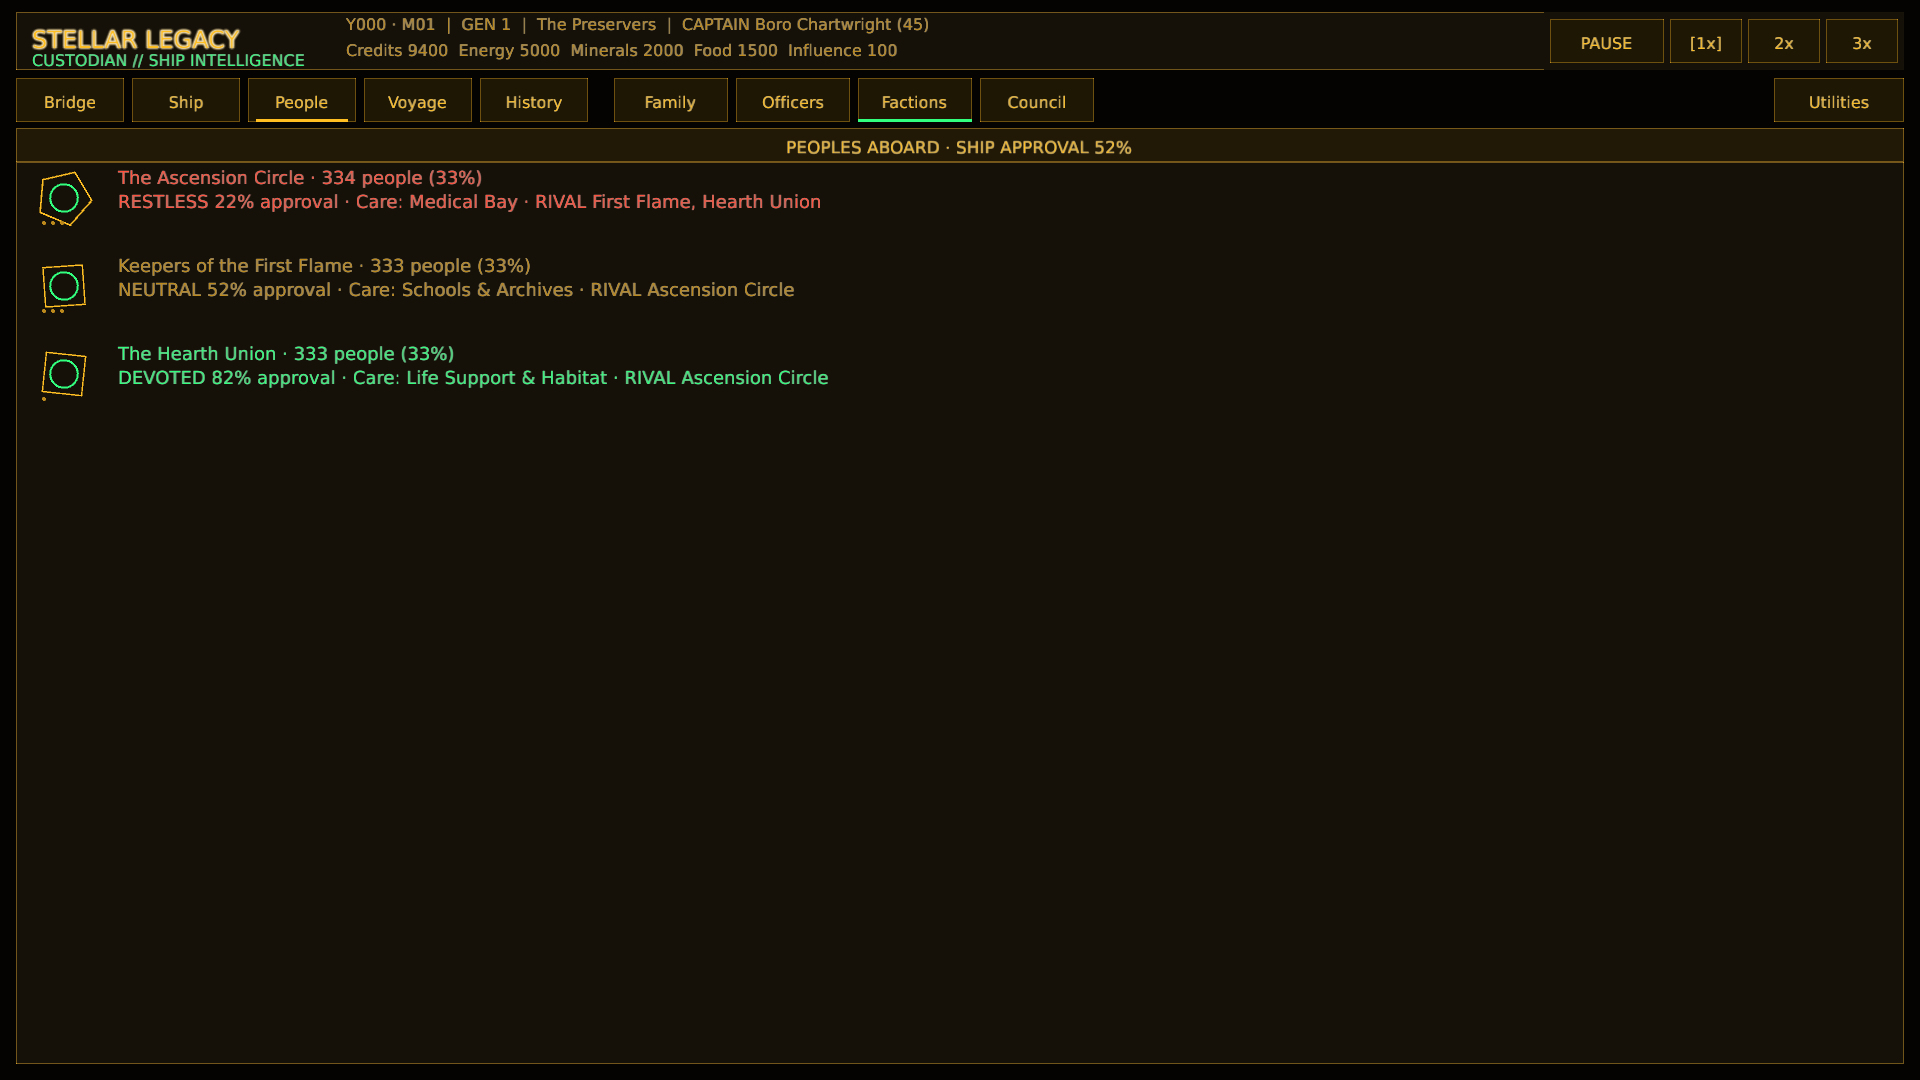
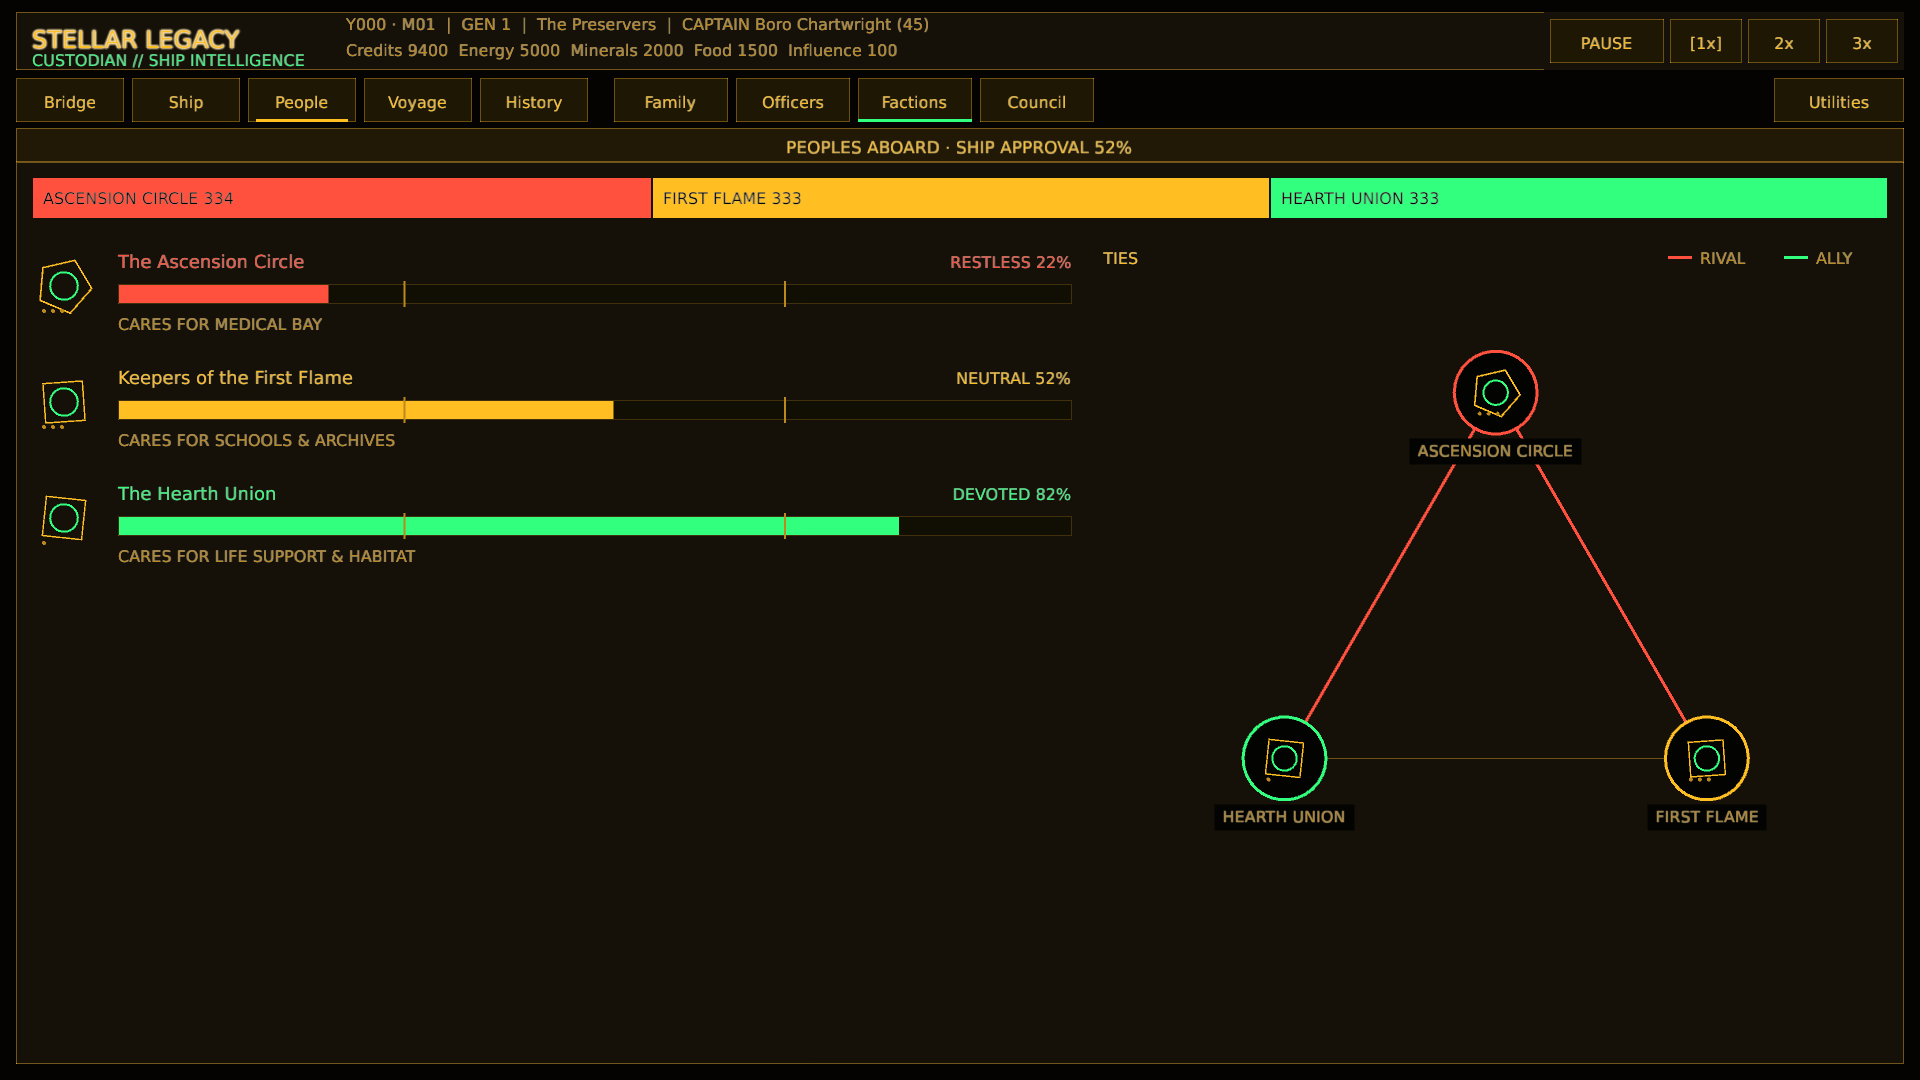
The peoples aboard are read by their colours and their quarrels (Factions panel)
Factions was three two-line sentences ("RESTLESS 22% approval · Care:
Medical Bay · RIVAL First Flame, Hearth Union") over a panel about 80%
empty (UI_TEXT_REVIEW item 3).

The panel now opens with one population-share bar split by head count,
each span in its people's mood colour. Each people gets a card: emblem,
name, mood and approval, an approval gauge with the restless (30%) and
devoted (70%) lines marked, and the module it cares for. The right
column draws the ties: peoples on a ring with mood-coloured rims,
joined by red rival and green ally edges, either side naming the other
being enough. Lost peoples still list faintly below the cards, and the
recruitment view is unchanged. The new `crew_dynasty/factions.rs` owns
the drawing; the old row builder is gone.

Formatting, strict all-target Clippy and the full test suite including
code standards pass. Factions was recaptured at 1920x1080 and read back.

diff --git a/src/ui/crew_dynasty/factions.rs b/src/ui/crew_dynasty/factions.rs
@@ -1,0 +1,233 @@
+//! Peoples aboard as instruments: a population-share bar, one approval gauge
+//! per people with the restless and devoted lines marked, and a ties diagram
+//! with rivals and allies drawn as coloured edges. Replaces the old two-line
+//! sentence per people (docs/UI_TEXT_REVIEW.md, item 3).
+
+use crate::state::sim::factions::{approval_band_label, mood_band_for, FactionState};
+use crate::ui::{chart, term, GameplayCtx};
+use macroquad::prelude::*;
+use macroquad_toolkit::prelude::*;
+use macroquad_toolkit::ui::draw_ui_text_ex;
+
+/// The approval lines where a people turns restless or devoted.
+const RESTLESS_LINE: f32 = 0.3;
+const DEVOTED_LINE: f32 = 0.7;
+const CARD_H: f32 = 116.0;
+
+fn mood_color(approval: f32) -> Color {
+    match mood_band_for(approval) {
+        -1 => term::alert(),
+        1 => term::accent(),
+        _ => term::primary(),
+    }
+}
+
+fn full_name(ctx: &GameplayCtx<'_>, id: &str) -> String {
+    ctx.data
+        .factions
+        .get(id)
+        .map(|definition| definition.name.clone())
+        .unwrap_or_else(|| id.to_owned())
+}
+
+fn short_name(ctx: &GameplayCtx<'_>, id: &str) -> String {
+    let name = full_name(ctx, id);
+    name.strip_prefix("The ")
+        .or_else(|| name.strip_prefix("Keepers of the "))
+        .unwrap_or(&name)
+        .to_uppercase()
+}
+
+/// Draws the aboard peoples and returns the y below the cards, where the
+/// caller lists any peoples the ship has lost.
+pub(super) fn draw_aboard(ctx: &GameplayCtx<'_>, content: Rect) -> f32 {
+    let aboard: Vec<&FactionState> = ctx.sim.factions.iter().filter(|f| f.is_aboard()).collect();
+    let bar = Rect::new(content.x, content.y + 34.0, content.w, 40.0);
+    draw_share_bar(ctx, &aboard, bar);
+
+    let top = bar.bottom() + 28.0;
+    let cards_w = content.w * 0.56;
+    let mut y = top;
+    for faction in &aboard {
+        draw_card(
+            ctx,
+            faction,
+            Rect::new(content.x, y, cards_w, CARD_H - 12.0),
+        );
+        y += CARD_H;
+    }
+    let ties = Rect::new(
+        content.x + cards_w + 32.0,
+        top,
+        content.right() - (content.x + cards_w + 32.0),
+        content.bottom() - top,
+    );
+    draw_ties(ctx, &aboard, ties);
+    y + 8.0
+}
+
+/// One bar split by head count, each span in its people's mood colour and
+/// named where it is wide enough to hold the name.
+fn draw_share_bar(ctx: &GameplayCtx<'_>, aboard: &[&FactionState], bar: Rect) {
+    let total: u32 = aboard.iter().map(|f| f.members).sum();
+    if total == 0 {
+        return;
+    }
+    let mut x = bar.x;
+    for faction in aboard {
+        let w = bar.w * faction.members as f32 / total as f32;
+        let span = Rect::new(x + 1.0, bar.y, (w - 2.0).max(1.0), bar.h);
+        draw_rectangle(span.x, span.y, span.w, span.h, mood_color(faction.approval));
+        let label = format!(
+            "{} {}",
+            short_name(ctx, &faction.faction_id),
+            faction.members
+        );
+        let style = TextStyle::new(16.0, term::bg());
+        if measure_text_size(&label, style).width + 20.0 < span.w {
+            draw_ui_text_ex(&label, span.x + 10.0, span.y + 26.0, style.params());
+        }
+        x += w;
+    }
+}
+
+fn draw_card(ctx: &GameplayCtx<'_>, faction: &FactionState, card: Rect) {
+    let tone = mood_color(faction.approval);
+    crate::ui::identity::emblem(
+        Rect::new(card.x, card.y + 8.0, 64.0, 64.0),
+        &faction.faction_id,
+    );
+    let x = card.x + 86.0;
+    draw_ui_text_ex(
+        &full_name(ctx, &faction.faction_id),
+        x,
+        card.y + 22.0,
+        TextStyle::new(18.0, tone).params(),
+    );
+    let mood = format!(
+        "{} {:.0}%",
+        approval_band_label(faction.approval),
+        faction.approval * 100.0
+    );
+    let mood_w = measure_text_size(&mood, TextStyle::new(16.0, tone)).width;
+    draw_ui_text_ex(
+        &mood,
+        card.right() - mood_w,
+        card.y + 22.0,
+        TextStyle::new(16.0, tone).params(),
+    );
+    let gauge = Rect::new(x, card.y + 38.0, card.right() - x, 20.0);
+    chart::gauge(gauge, faction.approval, None, tone);
+    // The band lines a people crosses into restlessness or devotion.
+    for line in [RESTLESS_LINE, DEVOTED_LINE] {
+        let lx = gauge.x + 1.0 + (gauge.w - 2.0) * line;
+        draw_rectangle(lx - 1.0, gauge.y - 3.0, 2.0, gauge.h + 6.0, term::dim());
+    }
+    if let Some(tended) = ctx
+        .data
+        .factions
+        .get(&faction.faction_id)
+        .and_then(|definition| ctx.data.subsystems.get(&definition.tended_subsystem))
+    {
+        draw_ui_text_ex(
+            &format!("CARES FOR {}", tended.name.to_uppercase()),
+            x,
+            card.y + 84.0,
+            TextStyle::new(16.0, term::dim()).params(),
+        );
+    }
+}
+
+/// Whether two peoples are rivals (-1), allies (+1) or neither (0). Either
+/// side naming the other is enough.
+fn tie(ctx: &GameplayCtx<'_>, a: &str, b: &str) -> i8 {
+    let names = |from: &str, to: &str, rivals: bool| {
+        ctx.data.factions.get(from).is_some_and(|definition| {
+            let list = if rivals {
+                &definition.rivals
+            } else {
+                &definition.allies
+            };
+            list.iter().any(|id| id == to)
+        })
+    };
+    if names(a, b, true) || names(b, a, true) {
+        -1
+    } else if names(a, b, false) || names(b, a, false) {
+        1
+    } else {
+        0
+    }
+}
+
+/// Peoples on a ring, joined by red rival and green ally edges.
+fn draw_ties(ctx: &GameplayCtx<'_>, aboard: &[&FactionState], area: Rect) {
+    draw_ui_text_ex(
+        "TIES",
+        area.x,
+        area.y + 18.0,
+        TextStyle::new(16.0, term::primary()).params(),
+    );
+    let legend_x = area.right() - 220.0;
+    draw_rectangle(legend_x, area.y + 10.0, 24.0, 3.0, term::alert());
+    draw_ui_text_ex(
+        "RIVAL",
+        legend_x + 32.0,
+        area.y + 18.0,
+        TextStyle::new(16.0, term::dim()).params(),
+    );
+    draw_rectangle(legend_x + 116.0, area.y + 10.0, 24.0, 3.0, term::accent());
+    draw_ui_text_ex(
+        "ALLY",
+        legend_x + 148.0,
+        area.y + 18.0,
+        TextStyle::new(16.0, term::dim()).params(),
+    );
+    if aboard.is_empty() {
+        return;
+    }
+    let center = vec2(
+        area.x + area.w * 0.5,
+        area.y + 40.0 + (area.h - 40.0) * 0.46,
+    );
+    let radius = (area.w.min(area.h - 40.0) * 0.32).max(60.0);
+    let nodes: Vec<Vec2> = (0..aboard.len())
+        .map(|index| {
+            let angle = -std::f32::consts::FRAC_PI_2
+                + std::f32::consts::TAU * index as f32 / aboard.len() as f32;
+            center + vec2(angle.cos(), angle.sin()) * radius
+        })
+        .collect();
+    for i in 0..aboard.len() {
+        for j in (i + 1)..aboard.len() {
+            let (color, thickness) = match tie(ctx, &aboard[i].faction_id, &aboard[j].faction_id) {
+                -1 => (term::alert(), 3.0),
+                1 => (term::accent(), 3.0),
+                _ => (term::faint(), 1.0),
+            };
+            draw_line(
+                nodes[i].x, nodes[i].y, nodes[j].x, nodes[j].y, thickness, color,
+            );
+        }
+    }
+    for (faction, node) in aboard.iter().zip(&nodes) {
+        draw_circle(node.x, node.y, 40.0, term::bg());
+        draw_circle_lines(node.x, node.y, 40.0, 3.0, mood_color(faction.approval));
+        crate::ui::identity::emblem(
+            Rect::new(node.x - 28.0, node.y - 28.0, 56.0, 56.0),
+            &faction.faction_id,
+        );
+        let label = short_name(ctx, &faction.faction_id);
+        let style = TextStyle::new(16.0, term::dim());
+        let w = measure_text_size(&label, style).width;
+        // A plate under the name keeps edges from striking through it.
+        draw_rectangle(
+            node.x - w * 0.5 - 8.0,
+            node.y + 46.0,
+            w + 16.0,
+            26.0,
+            term::bg(),
+        );
+        draw_ui_text_ex(&label, node.x - w * 0.5, node.y + 64.0, style.params());
+    }
+}

diff --git a/src/ui/crew_dynasty.rs b/src/ui/crew_dynasty.rs
@@ -4,7 +4,6 @@
 use crate::simulation::crew::post_holder;
 
 use crate::simulation::succession::planned_heir;
-use crate::state::sim::factions::{approval_band_label, mood_band_for};
 use crate::ui::{term, term_button, term_panel, GameplayCtx, UiAction};
 use macroquad::prelude::*;
 use macroquad_toolkit::prelude::*;
@@ -39,6 +38,7 @@ fn training_label(skill: u32, maximum: u32, gain: u32, cost: i64, credits: i64) 
     }
 }
 
+mod factions;
 mod people;
 pub use people::draw;
 
@@ -67,7 +67,8 @@ fn draw_factions(ctx: &GameplayCtx<'_>, rect: Rect, pointer: Pointer, actions: &
         draw_recruitment(ctx, content, pointer, actions);
         return;
     }
-    draw_aboard_factions(ctx, content);
+    let y = factions::draw_aboard(ctx, content);
+    draw_lost_factions(ctx, content, y);
 }
 
 fn draw_recruitment(
@@ -103,96 +104,6 @@ fn draw_recruitment(
             actions.push(UiAction::RecruitFactionGroup(id.clone()));
         }
     }
-}
-
-fn draw_aboard_factions(ctx: &GameplayCtx<'_>, content: Rect) {
-    let sim = ctx.sim;
-    let total_aboard: u32 = sim
-        .factions
-        .iter()
-        .filter(|f| f.is_aboard())
-        .map(|f| f.members)
-        .sum();
-    let faction_name = |id: &str| {
-        ctx.data
-            .factions
-            .get(id)
-            .map(|d| d.name.clone())
-            .unwrap_or_else(|| id.to_owned())
-    };
-    let mut y = content.y + 34.0;
-    let short_name = |id: &str| {
-        let name = ctx
-            .data
-            .factions
-            .get(id)
-            .map(|definition| definition.name.as_str())
-            .unwrap_or(id);
-        name.strip_prefix("The ")
-            .or_else(|| name.strip_prefix("Keepers of the "))
-            .unwrap_or(name)
-            .to_owned()
-    };
-
-    // The peoples still aboard come first — they are the living ship.
-    for fs in sim.factions.iter().filter(|f| f.is_aboard()) {
-        let share = if total_aboard > 0 {
-            fs.members as f32 / total_aboard as f32 * 100.0
-        } else {
-            0.0
-        };
-        let definition = ctx.data.factions.get(&fs.faction_id);
-        let tended = definition
-            .and_then(|definition| ctx.data.subsystems.get(&definition.tended_subsystem))
-            .map(|subsystem| subsystem.name.as_str())
-            .unwrap_or("no named discipline");
-        let rivals: Vec<_> = definition
-            .into_iter()
-            .flat_map(|definition| &definition.rivals)
-            .filter(|id| sim.is_faction_aboard(id))
-            .map(|id| short_name(id))
-            .collect();
-        let allies: Vec<_> = definition
-            .into_iter()
-            .flat_map(|definition| &definition.allies)
-            .filter(|id| sim.is_faction_aboard(id))
-            .map(|id| short_name(id))
-            .collect();
-        let mut ties = String::new();
-        if !rivals.is_empty() {
-            ties.push_str(&format!(" · RIVAL {}", rivals.join(", ")));
-        }
-        if !allies.is_empty() {
-            ties.push_str(&format!(" · ALLY {}", allies.join(", ")));
-        }
-        let mood = mood_band_for(fs.approval);
-        crate::ui::identity::emblem(Rect::new(content.x, y - 12.0, 64.0, 64.0), &fs.faction_id);
-        draw_text_block(
-            &format!(
-                "{} · {} people ({share:.0}%)\n{} {:.0}% approval · Care: {}{}",
-                faction_name(&fs.faction_id),
-                fs.members,
-                approval_band_label(fs.approval),
-                fs.approval * 100.0,
-                tended,
-                ties
-            ),
-            content.x + 86.0,
-            y - 12.0,
-            content.w - 104.0,
-            66.0,
-            18.0,
-            6.0,
-            match mood {
-                -1 => term::alert(),
-                1 => term::accent(),
-                _ => term::dim(),
-            },
-        );
-        y += 88.0;
-    }
-
-    draw_lost_factions(ctx, content, y);
 }
 
 fn draw_lost_factions(ctx: &GameplayCtx<'_>, content: Rect, mut y: f32) {
